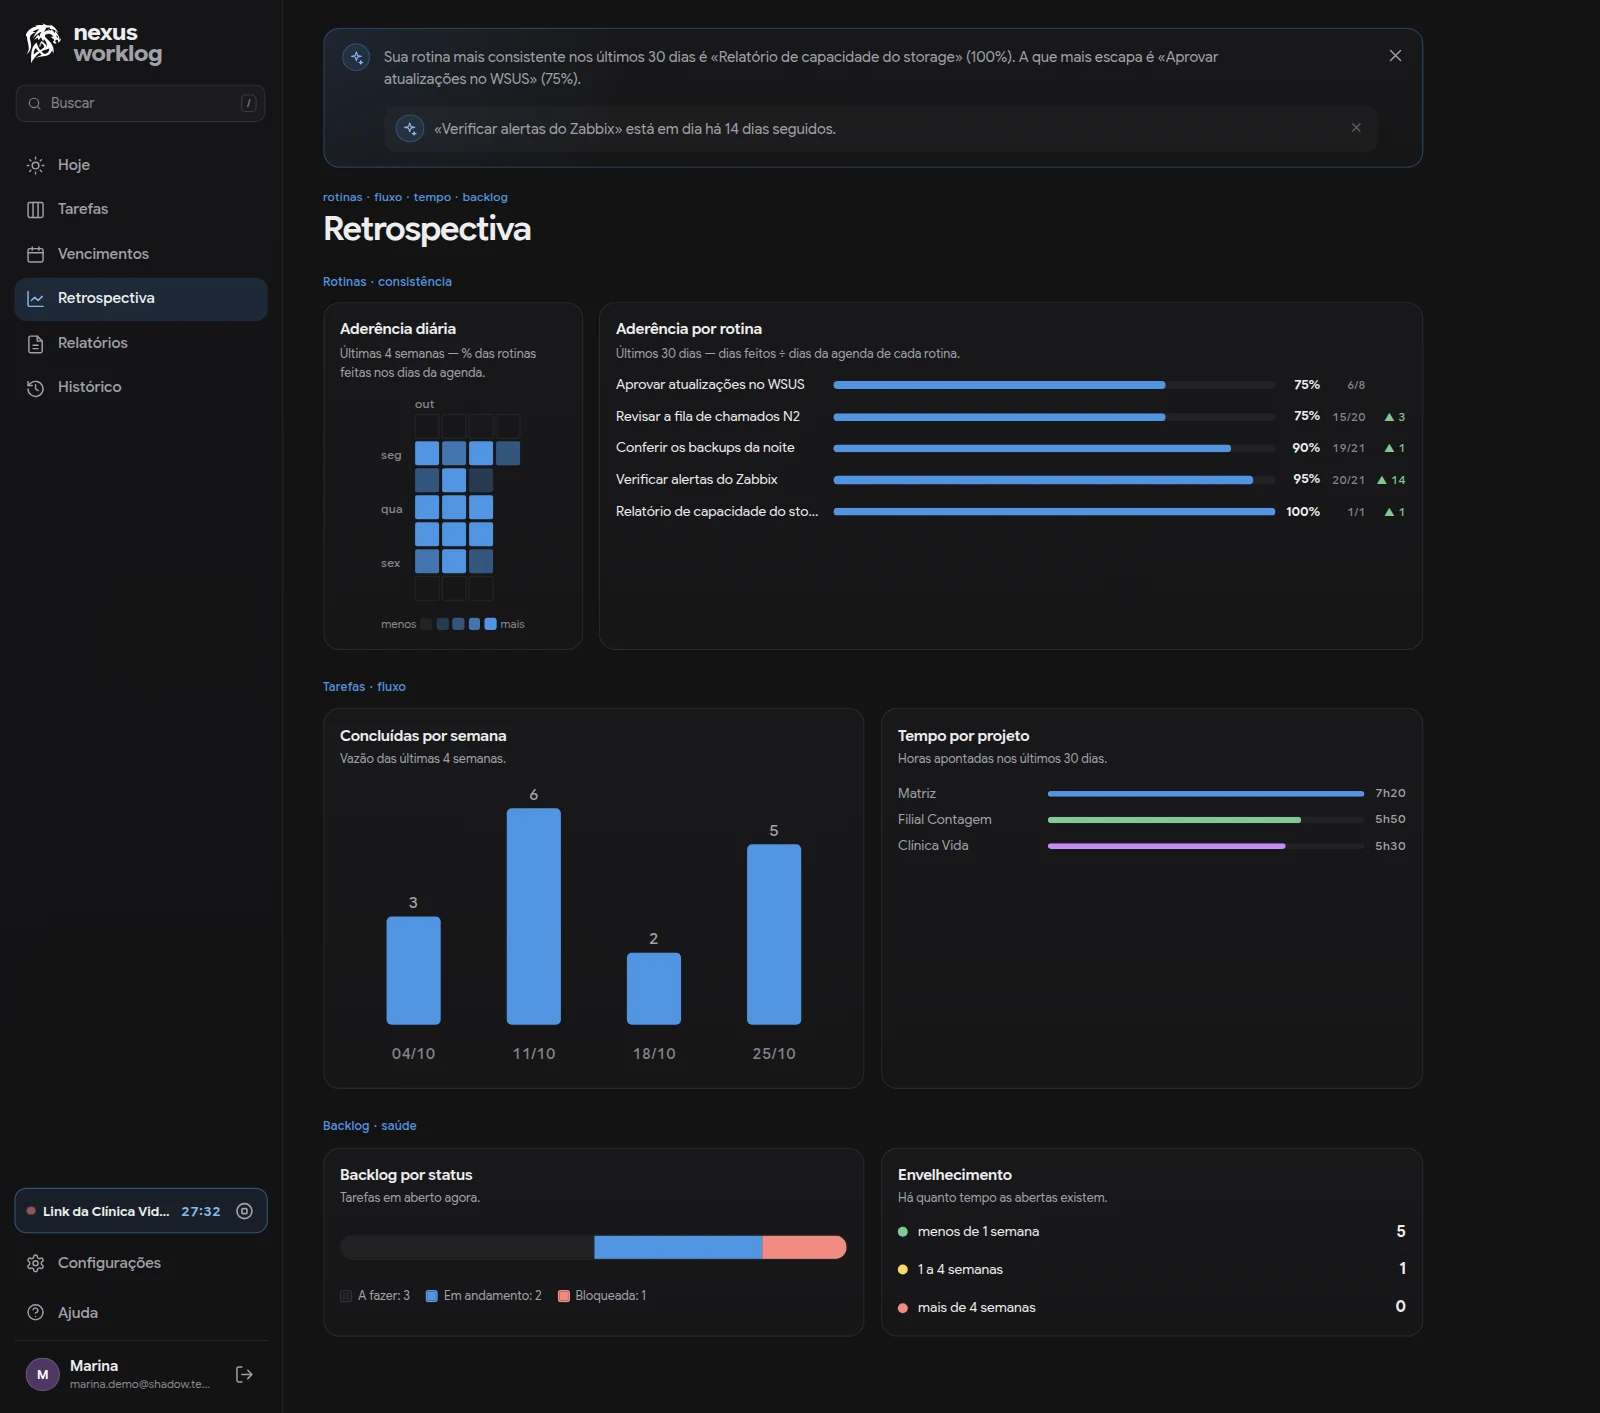
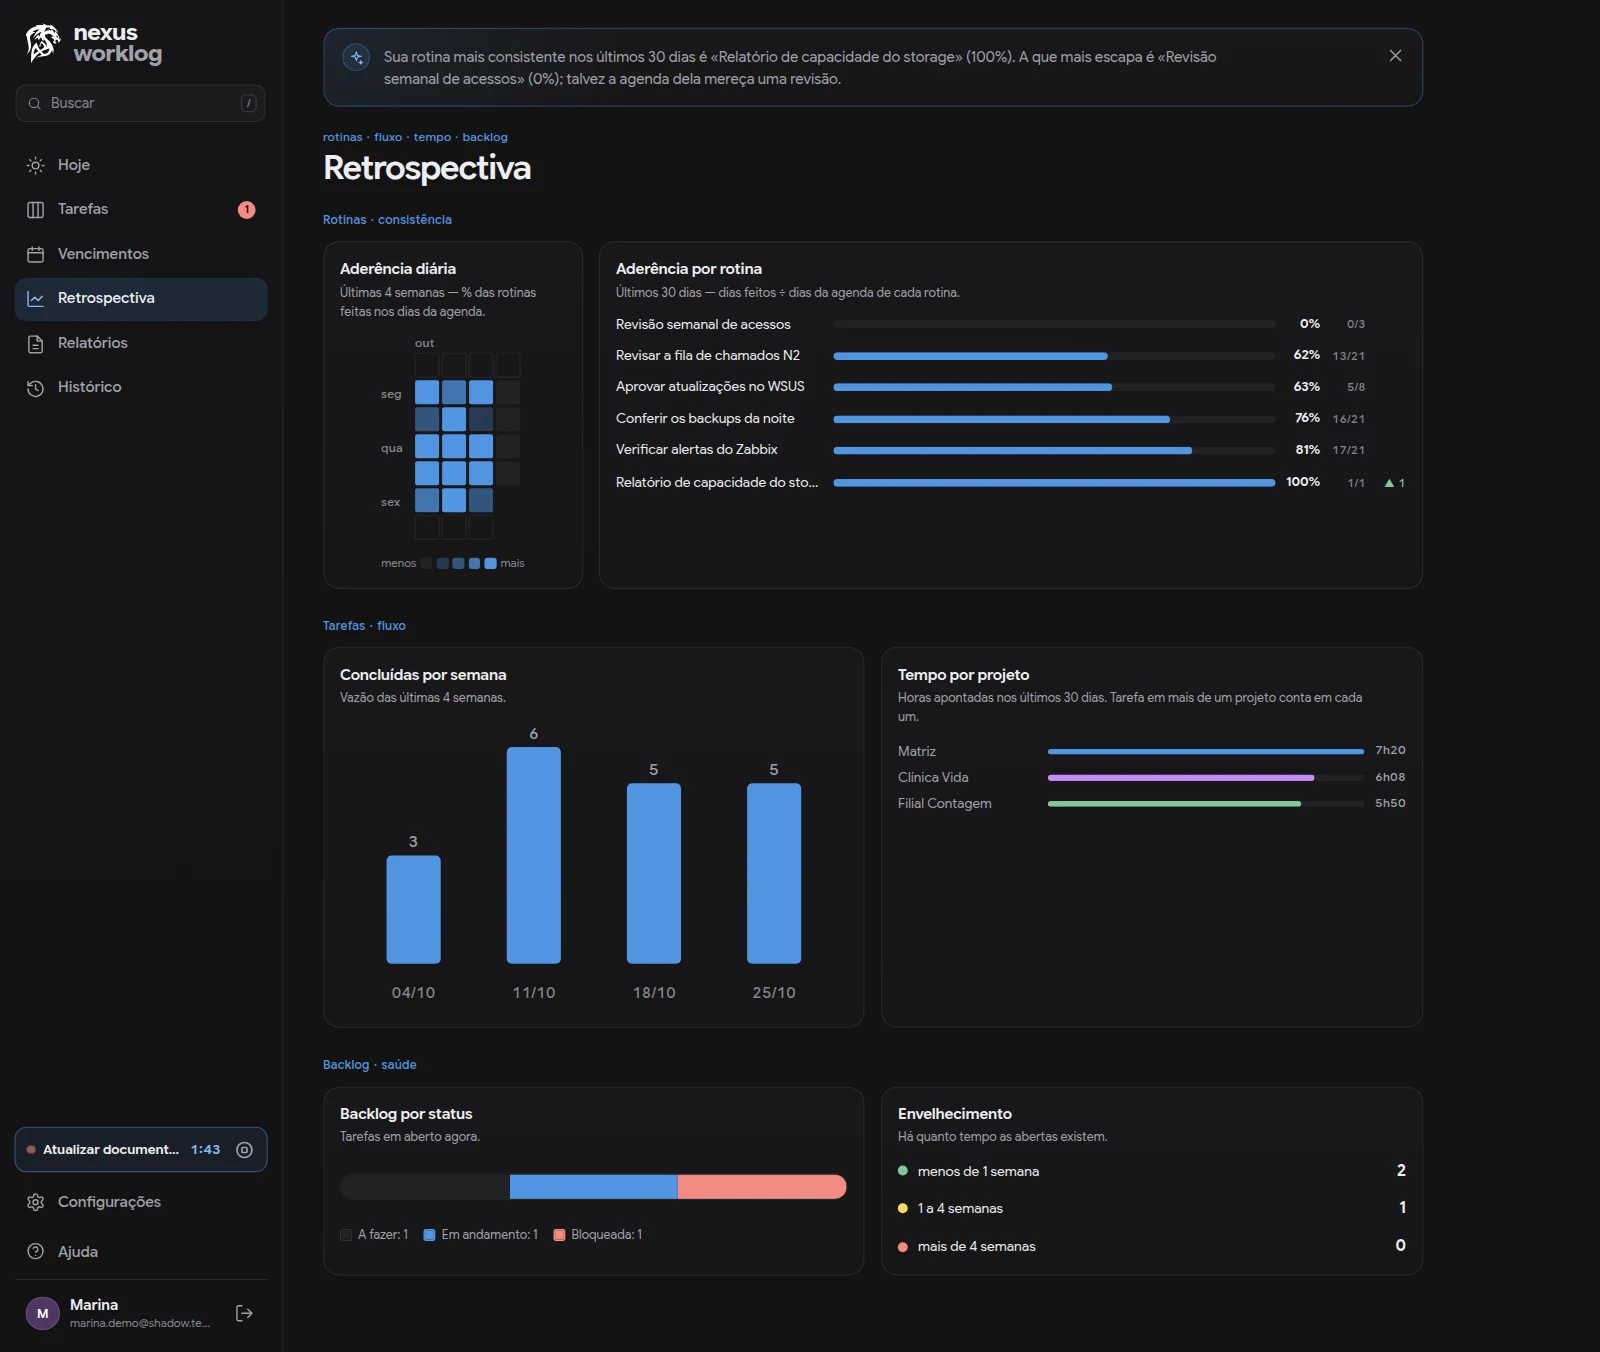
README: recursos novos (tour, multiprojeto, projeto padrão, convite e senha por e-mail, PDF editorial, resumo semanal com PDF) e capturas refeitas

diff --git a/README.md b/README.md
@@ -20,11 +20,17 @@ para leitura, o quadro, a retrospectiva e os relatórios de cada pessoa).
   pra hoje, o que saiu ontem, o resumo do dia e por onde começar. Avisa tarefa
   bloqueada há dias, prazo de amanhã e tempo esquecido, e copia o texto da
   daily. Cada aviso tem o próprio X; tudo é calculado a partir dos registros da
-  pessoa, sem IA chamada a cada tela.
+  pessoa, sem IA chamada a cada tela. As abertas filtram por "vence hoje"
+  (com as atrasadas) ou "prioritárias", e o resumo da semana volta semana a
+  semana, cada uma comparada com a anterior. No primeiro acesso, um **tour
+  guiado** configura o essencial (nome, dias úteis, projetos, projeto padrão,
+  rotinas) e mostra a tela; a Ajuda reabre.
 - **Rotinas** — verificações que se repetem (backups, alertas, fila…), com agenda:
   dias úteis, dias da semana, mensal (inclui "último dia") ou a cada N dias.
   Marcação até 7 dias para trás; feito fora da agenda conta como *extra*.
-- **Tarefas** — status, prioridade, prazo, projeto/cliente, checklist,
+- **Tarefas** — status, prioridade, prazo, projeto/cliente (uma tarefa pode
+  atender **mais de um projeto**: aparece em cada um, com o tempo inteiro em
+  cada um; e há um **projeto padrão** por pessoa para o que é criado sem projeto), checklist,
   anotações e apontamento de tempo; **cronômetro** (um por pessoa, vale em
   qualquer aparelho); **número do chamado** (GLPI, TomTicket, Jira…) que vira
   link; **plantão** fora do horário, com o tempo separado no relatório; e
@@ -38,7 +44,7 @@ para leitura, o quadro, a retrospectiva e os relatórios de cada pessoa).
   exigida por rotina. Impedimento parado há dias vira lembrete com "Cobrei", ou
   com um dia combinado para cobrar (no Hoje, no calendário e no e-mail da manhã).
   CSV de plantão (horas do mês) e CSV de rotinas e evidências (auditoria). Registro rápido
-  entende `@projeto #chamado !plantão !alta ^amanhã !bloq motivo — 45min`; o detalhe da tarefa copia um resumo pronto para o chamado ou o cliente.
+  entende `@projeto #chamado !plantão !alta ^amanhã !bloq motivo — 45min` (dois `@`, dois projetos); o detalhe da tarefa copia um resumo pronto para o chamado ou o cliente.
 - **Vencimentos e base de conhecimento** — certificados, licenças, domínios e
   garantias avisam com antecedência (Hoje, e-mail da manhã, calendário); ao
   concluir, "como resolveu?" vira texto que a busca encontra — e a tarefa nova
@@ -46,16 +52,23 @@ para leitura, o quadro, a retrospectiva e os relatórios de cada pessoa).
 - **Atribuição** — quem aceita (Configurações › Conta) recebe tarefas de um
   atribuidor pelo app ou pela IA, com aviso por e-mail; a tarefa passa a ser
   dela, e quem atribuiu acompanha o status e recebe um e-mail quando ela é concluída.
-- **Relatórios** — PDF por período, por projeto ou do projeto inteiro;
-  exportação em CSV (planilha) e JSON (backup).
+- **Relatórios** — PDF por período, por projeto ou do projeto inteiro, em
+  estilo editorial: o período em texto corrido, os números, o ritmo, a
+  **matriz de rotinas** (um ponto por dia) e o diário. Pode ir toda segunda
+  anexado ao resumo semanal por e-mail, com cópia opcional (gestor, cliente).
+  Exportação em CSV (planilha) e JSON (backup).
 - **Retrospectiva** (aderência das rotinas, vazão, tempo por projeto, backlog),
   **histórico com desfazer**, **busca** sem acento (inclusive por `#chamado`),
   **feed de calendário (ICS)**, **avisos por e-mail** (opt-in), **lembrete** no
   app depois de X minutos sem registro, **atalhos de teclado** (`n`, `/`, `s`,
   `?`…), perfil com nome e foto e **identidade visual** configurável pelo admin.
+- **Contas** — com e-mail configurado, o admin convida por **link** (7 dias,
+  uso único; a pessoa cria a senha e já entra) e o login tem **esqueci a
+  senha** (link de 1 hora). Sem e-mail, senha temporária trocada no 1º acesso.
 - **IA** — chaves de API e servidor **MCP** (`/mcp`): a IA registra, anota,
   aponta e cronometra o que você contar, com tudo marcado no histórico pelo nome
-  da chave. Comandos prontos para o resumo da semana e para a daily. Para
+  da chave. Comandos prontos para o resumo da semana e para a daily; `get_week`
+  traz semanas passadas. Para
   lançar o que já aconteceu: `created_at`/`completed_at`, `external_ref` (não
   duplica) e `list_tasks` por período.
 
@@ -136,6 +149,9 @@ docker compose -f docker-compose.test.yml run --rm --build tests
 
 Postgres descartável (tmpfs), projeto compose separado — nunca encosta nos dados reais.
 
+Testes de ponta a ponta no navegador (tour, convite e senha por e-mail, PDFs),
+contra a homologação: veja [`tools/e2e/README.md`](tools/e2e/README.md).
+
 ## Deploy
 
 `./deploy.sh` na VM: confere o `.env`, faz `pg_dump` verificado do banco, `git
@@ -159,7 +175,10 @@ incidente e outra quando volta. Logs com rotação (10 MB × 5 por serviço).
 - **Senhas** Argon2id (perfil OWASP, no máximo 2 cálculos simultâneos — sob
   carga responde 503 em vez de travar), mínimo 10 caracteres; login limitado
   por IP (todas as tentativas; IPv6 por /64) e por e-mail (só as falhas, que
-  vão para o log); troca de senha limitada e diferente da atual.
+  vão para o log); troca de senha limitada e diferente da atual. Links de
+  convite e de senha nova: uso único, só o HMAC no banco, o token no `#` da
+  URL (fora dos logs); "esqueci a senha" responde igual com ou sem conta e tem
+  limite por IP e por e-mail.
 - **Sessão** server-side: o banco guarda só o HMAC do token; cookie
   `__Host-session` (`HttpOnly; Secure; SameSite=Strict`), prazo fixo
   (`SESSION_TTL_DAYS`). Histórico guardado por 180 dias.
